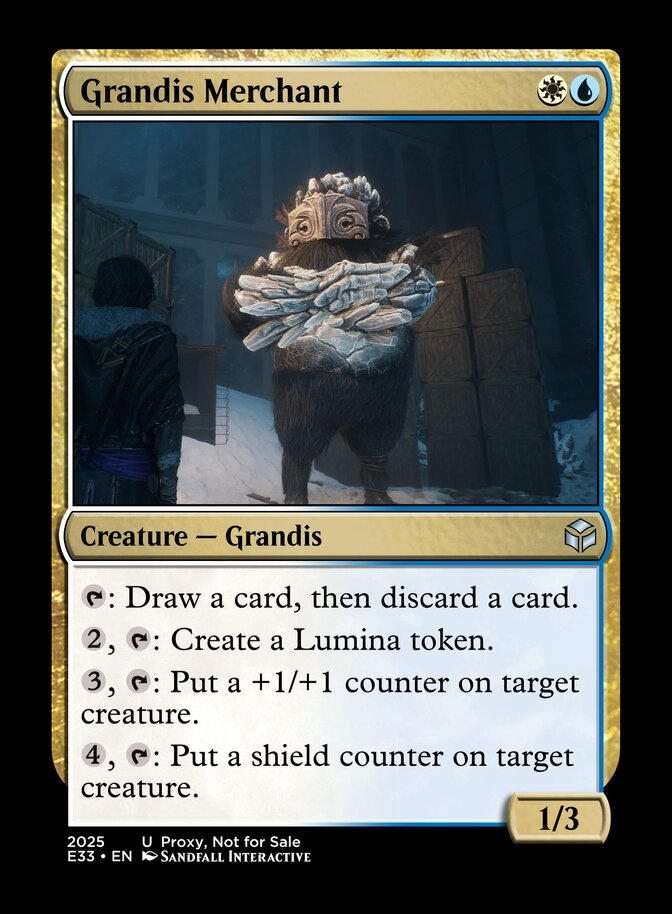
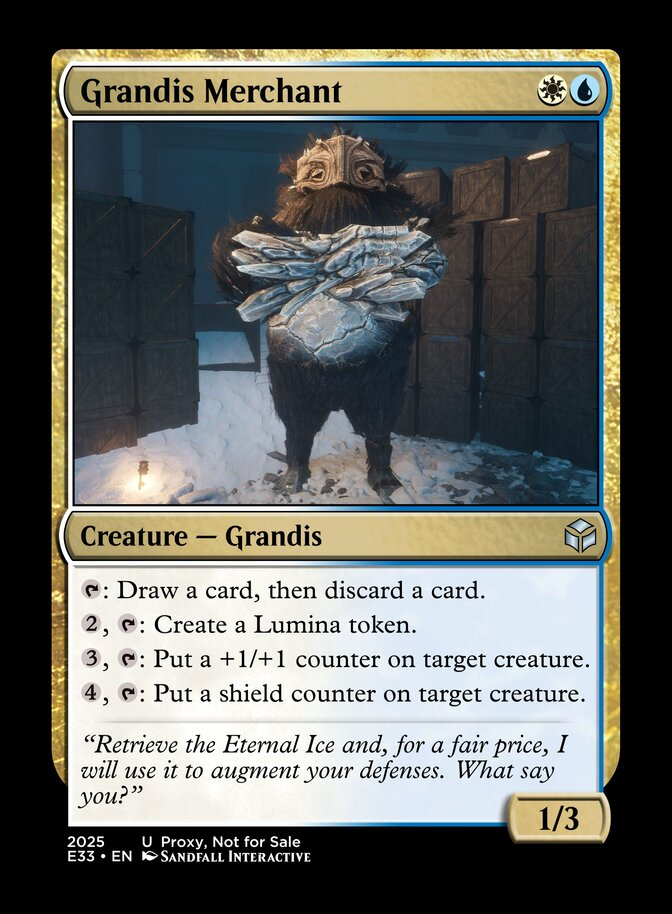
Grandis Merchant: Add flavor text

Changed region(s): [[0.0938, 0.1225, 0.9062, 0.5514], [0.125, 0.6127, 0.875, 0.8884]]

diff --git a/design/MULTICOLOR.md b/design/MULTICOLOR.md
@@ -1,6 +1,6 @@
 # Cards
 
-> Last generated: 6/7/2026 1:41:08 pm
+> Last generated: 6/7/2026 1:46:24 pm
 
 ## Aberration
 
@@ -1443,6 +1443,8 @@ Creature - Grandis
 {2}, {T}: Create a Lumina token.
 {3}, {T}: Put a +1/+1 counter on target creature.
 {4}, {T}: Put a shield counter on target creature.
+---
+"Retrieve the Eternal Ice and, for a fair price, I will use it to augment your defenses. What say you?"
 
 1/3
 ```
